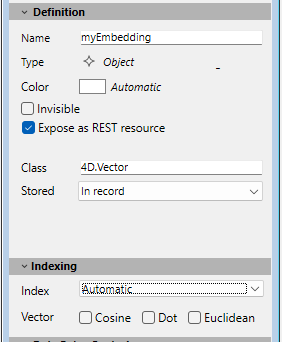
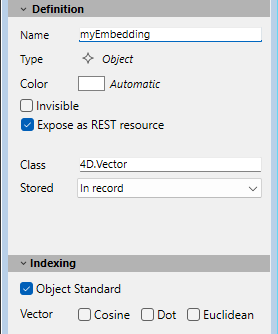
First round

Changed region(s): [[0.0, 0.0, 1.0, 1.0], [0.259, 0.3593, 0.6043, 0.3892], [0.1151, 0.2994, 0.2878, 0.3293]]

diff --git a/docs/Develop/structure-indexes.md b/docs/Develop/structure-indexes.md
@@ -30,7 +30,7 @@ Indexed fields are displayed in **bold** type in the Structure editor.
 
 ### Standard indexes
 
-A standard index is intended to accelerate database operations (a standard index refers to a generic index as opposed to a keyword or composite index). 4D offers two types of architectures for standard indexes: B-Tree and Cluster B-Tree.
+A standard index is intended to accelerate database operations (a standard index refers to a generic index as opposed to a keyword, vector, or composite index). 4D offers two types of architectures for standard indexes: B-Tree and Cluster B-Tree.
 
 - **B-Tree:** Standard B-Tree type index. This multipurpose index type meets most indexing requirements.
 - **Cluster B-Tree:** B-Tree type index using clusters. This architecture is more efficient when the index does not contain a large number of keys, i.e. when the same values occur frequently in the data.
@@ -42,7 +42,6 @@ A B-Tree index associated with a Text type field stores the first 1024 character
 :::
 
 When you choose the index architecture, 4D also provides the Automatic option. In this case, 4D automatically selects the architecture according to the type of data concerned.
-The **Automatic** option is the only option available for Object type fields, except if you associated a 4D.Vector class to the field ([see below](#vector-index)). In fact, with the **Automatic** option, all attribute paths are automatically indexed.
 
 ### Composite indexes
 
@@ -74,6 +73,12 @@ QUERY([PICTURES];[PICTURES]Photos %"cats")
 This works the same way for all the query and order by commands: [`QUERY BY FORMULA`](../commands/query-by-formula), [`QUERY SELECTION`](../commands/query-selection), [`ORDER BY`](../commands/order-by), etc.
 
 
+### Object Standard
+
+This option is only available for Object type fields. When it is selected, all attribute paths are automatically indexed.
+
+You can select the standard object index type in addition to one ore more vector index(es) to handle null vectors, it will be automatically used in this case. 
+
 ### Vector index
 
 A vector index can be associated to an Object type field that was configured as a `4D.Vector` [class](./field-properties.md#4dvector-class). In this case, the following options are available:
@@ -83,9 +88,10 @@ A vector index can be associated to an Object type field that was configured as 
 - **Cosine**: the vector index is optimized for [cosine similarity](../API/VectorClass.md#understanding-the-different-vector-computations) computations. 
 - **Dot**: the vector index is optimized for [dot similarity](../API/VectorClass.md#understanding-the-different-vector-computations) computations.
 - **Euclidean**: the vector index is optimized for [euclidean distance](../API/VectorClass.md#understanding-the-different-vector-computations) computations.
-- **Automatic**: standard object index type ([see above](#standard-indexes)). You can select this index type to handle null vectors, it will be automatically used in this case. 
 
 You can select one or more index types for your vector fields, the appropriate index will be automatically used depending on the actual computation. For optimization reasons, it is recommended to only select necessary index types. 
+
+If checked, the [Object Standard](#object-standard) index type will be automatically used in this case of null vectors. 
 
 
 :::tip Related blog post
@@ -110,7 +116,7 @@ The ![](../assets/en/Develop/index-list.png) button of the toolbar in the Struct
 
 The Index List can be used to view the main properties of the indexes:
 
-- **Type:** Index type. Each type of index (B-tree, Cluster B-tree, Keyword, Euclidean, Cosine, Dot) is depicted with a different icon.  
+- **Type:** Index type. Each type of index (Automatic, B-tree, Cluster B-tree, Keyword, Object Standard, Euclidean, Cosine, Dot) is depicted with a different icon.  
 - **Description:** Table and field(s) of index. For a composite index, this list contains all the fields of the index.  
 - **Name:** Index name. This property is used in particular by the language commands. You can change or add an index name by double-clicking in this column.
 
@@ -127,15 +133,15 @@ Two additional commands are available in the menu associated with the tool butto
 
 To create a **standard index** directly:
 
-1. Select a field then choose a value from the "Index" menu of the **Inspector palette**. 
-**OR**  
+1. Select a field then choose a value from the "Index" menu of the **Inspector palette**.   
+**OR**   
 Right-click on the field then select a value from the **Index>** submenu of the context menu. 
 
 To create a **composite index** or any other type of index using the index creation dialog box:
 
-1. Select several fields while holding down the **Shift** key (for adjacent selection) or **Ctrl** (Windows) or **Command** (macOS) button then right click on one of the fields and select **New Composite Index...** in the context menu.
-**OR**  
-Select the **New Index...** in the context menu of the table or select **Index** in the add objects menu of the Structure editor tool bar.  
+1. Select several fields while holding down the **Shift** key (for adjacent selection) or **Ctrl** (Windows) or **Command** (macOS) button then right click on one of the fields and select **New Composite Index...** in the context menu.   
+**OR**   
+Select the **New Index...** in the context menu of the table or select **Index** in the add objects menu of the [Structure editor toolbar](./structure-editor.md#toolbar).  
 
 
 
@@ -150,7 +156,7 @@ It contains the following elements:
 - **Type:** Selection menu for type of index to be created. If you keep the "Automatic" option, 4D will automatically choose the index type according to the contents of the field.  
 - **List of Fields:** This area is used to specify the field(s) associated with the index. It can contain a field by default depending on the current selection in the editor.
 
-To add a field to the index, click on the **[+]** button. The list of fields of the selected table is displayed so that you can indicate the field to be added to the index.
+To add a field to the index, click on the **[+]** button. Fields of the selected table that are compatible with the selected index type are listed so that you can choose the field to be added to the index.
 
 - If you want to create a composite index, add each field to be included in the index successively. Once the list is completed, you can reorder the fields using the arrow buttons or using drag and drop.  
 - If you create a composite index based on primary key fields, make sure you put the fields in the same order in the primary key and in the index.  
@@ -164,11 +170,13 @@ Once the index has been configured, click on **OK** to generate the index.
 
 You can delete indexes that are no longer useful at any time. This can be carried out directly in the Structure editor or using the [Index List](#index-list) window. 
 
-To delete a standard index in the Structure editor:
+To delete a standard index in the Structure editor
 
-1. Select the field associated with the index you want to delete, then choose the **None** or uncheck the **Keyword Index** option (for a keyword index) in the Index menu of the **Inspector palette** 
-**OR**  
-Right-click on the field associated with the index, then choose the **None** or uncheck the **Keywords** option from the **Index>** submenu of the context menu.
+1. Right-click on the field associated with the index you want to delete, then uncheck the corresponding index name in the **Index>** submenu of the context menu.   
+**OR**    
+Double-click on the field associated with the index, then choose **None** in the Standard menu or uncheck the corresponding index option.
+
+Index associated with **Unique** fields cannot be deleted directly, you must first uncheck the **Unique** attribute for the field. 
 
 The deletion (and viewing) of a composite index can only be carried out from the List Index window, see above.
 

diff --git a/docs/language-legacy/Structure Access/set-index.md b/docs/language-legacy/Structure Access/set-index.md
@@ -12,7 +12,7 @@ displayed_sidebar: docs
 | Parameter | Type |  | Description |
 | --- | --- | --- | --- |
 | aField | Field | &#8594;  | Field for which to create or delete the index |
-| index | Boolean, Integer | &#8594;  | True = Create index, False = Delete index, or<br/>Create an index of the type: -1 = Keywords, 0 = default, 1 = B-Tree standard, 3 = B-Tree cluster, 4 = Cosine, 5 = Dot, 6 = Euclidean  |
+| index | Boolean, Integer | &#8594;  | True = Create index, False = Delete index, or<br/>Create an index of the type: -1 = Keywords, 0 = default, 1 = B-Tree standard, 3 = B-Tree cluster, 4 = Cosine, 5 = Dot, 6 = Euclidean, 7 = Object standard |
 | * | Operator |  &#8594;  | Asynchronous indexing if * is passed |
 </div>
 <!-- END REF-->
@@ -22,6 +22,7 @@ displayed_sidebar: docs
 
 |Release|Changes|
 |---|---|
+|21 R6|Object standard index new value|
 |21 R5|Support for Cosine, Dot, Euclidean vector indexes|
 |11 SQL|Modified|
 |<6|Created|
@@ -31,14 +32,13 @@ displayed_sidebar: docs
 
 ## Compatibility Note 
 
-<!--REF #_command_.SET INDEX.Summary-->**SET INDEX**, although a legacy command, is still fully supported and can remain in your application -- there is no need to rewrite existing code.<!-- END REF--> However, it would be better to use [CREATE INDEX](../commands/create-index) and [DELETE INDEX](../commands/delete-index) to manage indexes because they provide more features. 
+**SET INDEX**, although a legacy command, is still fully supported and can remain in your application -- there is no need to rewrite existing code. However, it would be better to use [CREATE INDEX](../commands/create-index) and [DELETE INDEX](../commands/delete-index) to manage indexes because they provide more features. 
 
 ## Description 
 
-The **SET INDEX** accepts two syntaxes:
-
+<!--REF #_command_.SET INDEX.Summary-->The **SET INDEX** accepts two syntaxes:  
 * If you pass a Boolean in the *index* parameter, the command creates or removes the index for the field you pass in *aField*.
-* If you pass an integer in the *index* parameter, the command creates an index of the type specified.
+* If you pass an integer in the *index* parameter, the command creates an index of the type specified.<!-- END REF-->
 
 **index = Boolean**  
 To index the field, pass True in *index*. The command creates an index of the default type. If the index already exists, the call has no effect.   
@@ -56,6 +56,8 @@ In this case, the command creates an index of the type specified for *aField*. Y
 | Vector cosine index | Integer | 4    | Index optimized for AI queries using [cosine similarity](../../API/VectorClass.md#cosinesimilarity) |
 | Vector dot index | Integer | 5    | Index optimized for AI queries using [dot similarity](../../API/VectorClass.md#dotsimilarity)  |
 | Vector euclidean index | Integer | 6    | Index optimized for AI queries using [euclidean distance](../../API/VectorClass.md#euclideandistance)  |
+| Object standard index | Integer | 7    | Standard index for object fields  |
+
 
 
 :::note

diff --git a/docs/Notes/updates.md b/docs/Notes/updates.md
@@ -19,7 +19,9 @@ Read [**What’s new in 4D 21 R6**](https://blog.4d.com/whats-new-in-4d-21-r6/),
 #### Behavior changes
 
 - In a [choice list](../FormObjects/dropdownList_Overview.md#using-a-choice-list) or [hierachical choice list](../FormObjects/dropdownList_Overview.md#using-a-hierarchical-choice-list) used as a [drop-down list](../FormObjects/dropdownList_Overview.md), item attributes (style, color...) are now rendered on Windows (*Fluent UI*) and macOS. It was only supported with [menus](../Menus/overview.md) in previous releases. 
-- [Permission inheritance](../ORDA/privileges.md#inherited-permissions): a function permission now inherits each action it does not list from its singleton or dataclass, then from the datastore, and a **promote** permission never grants **execute**. Previously, a singleton function permission that only defined **promote** fell back to the datastore **execute** permission, which could open a restricted function to every session allowed to execute on the datastore (for example through REST). To keep a privilege able to call a promoted function, list it in the function's **execute** permission.
+- The automatic object index has been renamed ["Object standard"](../Develop/structure-indexes.md#object-standard) to clearly differentiate it from vector indexes available for object fields. The new `Object standard index` constant is available with [`CREATE INDEX`](../commands/create-index). 
+- [Permission inheritance](../ORDA/privileges.md#inherited-permissions): a function permission now inherits each action it does not list from its singleton or dataclass, then from the datastore, and a **promote** permission never grants **execute**. Previously, a singleton function permission that only defined **promote** fell back to the datastore **execute** permission, which could open a restricted function to every session allowed to execute on the datastore (for example through REST). To keep a privilege able to call a promoted function, list it in the function's **execute** permission. 
+
 
 
 ## 4D 21 R5

diff --git a/docs/language-legacy/Structure Access/create-index.md b/docs/language-legacy/Structure Access/create-index.md
@@ -13,7 +13,7 @@ displayed_sidebar: docs
 | --- | --- | --- | --- |
 | aTable | Table | &#8594;  | Table for which to create an index |
 | fieldsArray | Pointer array | &#8594;  | Pointer(s) to field(s) to be indexed |
-| indexType | Integer | &#8594;  | Type of index to create: -1 = Keywords, 0 = default, 1 = Standard B-Tree, 3 = Cluster B-Tree, 4 = Cosine, 5 = Dot, 6 = Euclidean |
+| indexType | Integer | &#8594;  | Type of index to create: -1 = Keywords, 0 = default, 1 = Standard B-Tree, 3 = Cluster B-Tree, 4 = Cosine, 5 = Dot, 6 = Euclidean, 7 = Object standard |
 | indexName | Text | &#8594;  | Name of index to create |
 | * | Operator | &#8594;  | If passed = asynchronous indexing |
 </div>
@@ -24,6 +24,7 @@ displayed_sidebar: docs
 
 |Release|Changes|
 |---|---|
+|21 R6|Object standard index new value|
 |21 R5|Support for Cosine, Dot, Euclidean vector indexes|
 |11 SQL|Created|
 
@@ -47,6 +48,8 @@ The *indexType* parameter sets the type of index to be created. You can pass one
 | Vector cosine index | Integer | 4    | Index optimized for AI queries using [cosine similarity](../../API/VectorClass.md#cosinesimilarity) |
 | Vector dot index | Integer | 5    | Index optimized for AI queries using [dot similarity](../../API/VectorClass.md#dotsimilarity)  |
 | Vector euclidean index | Integer | 6    | Index optimized for AI queries using [euclidean distance](../../API/VectorClass.md#euclideandistance)  |
+| Object standard index | Integer | 7    | Standard index for object fields  |
+
 
 :::note
 
